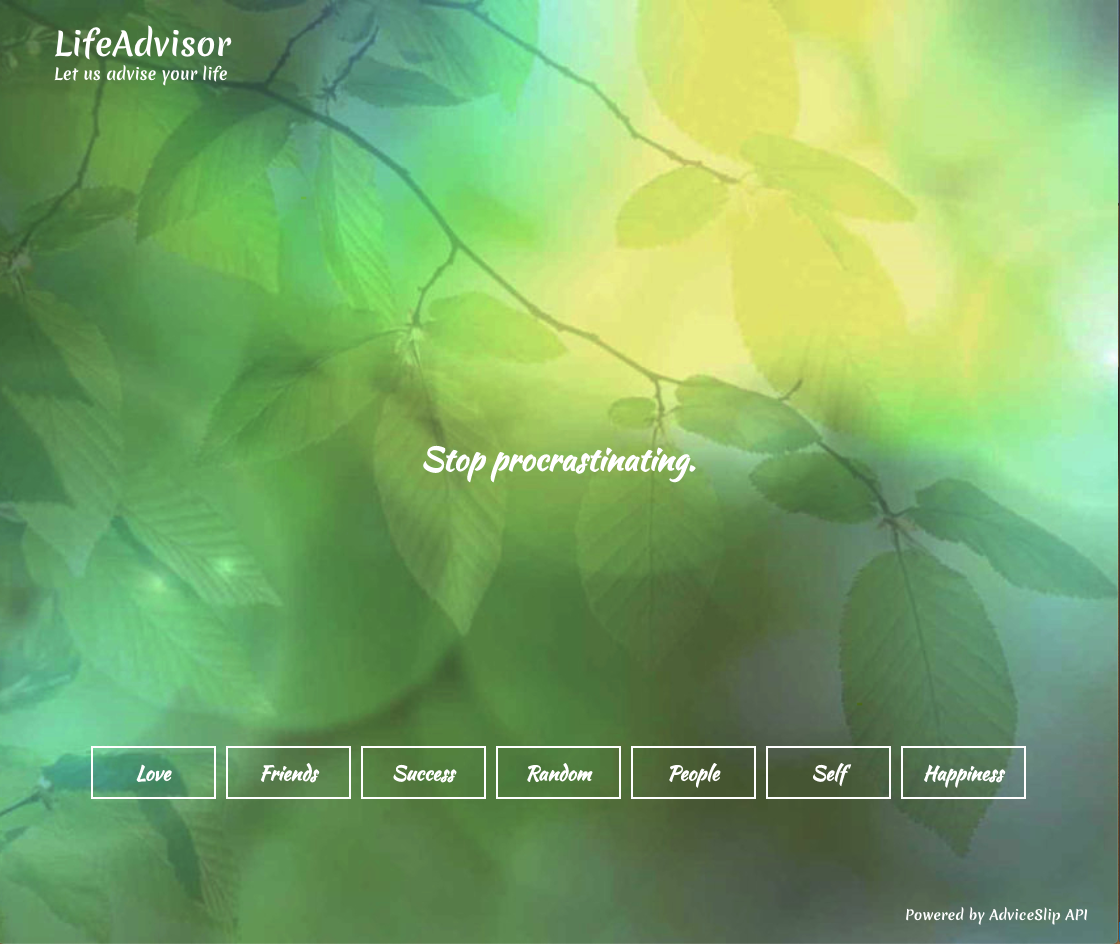
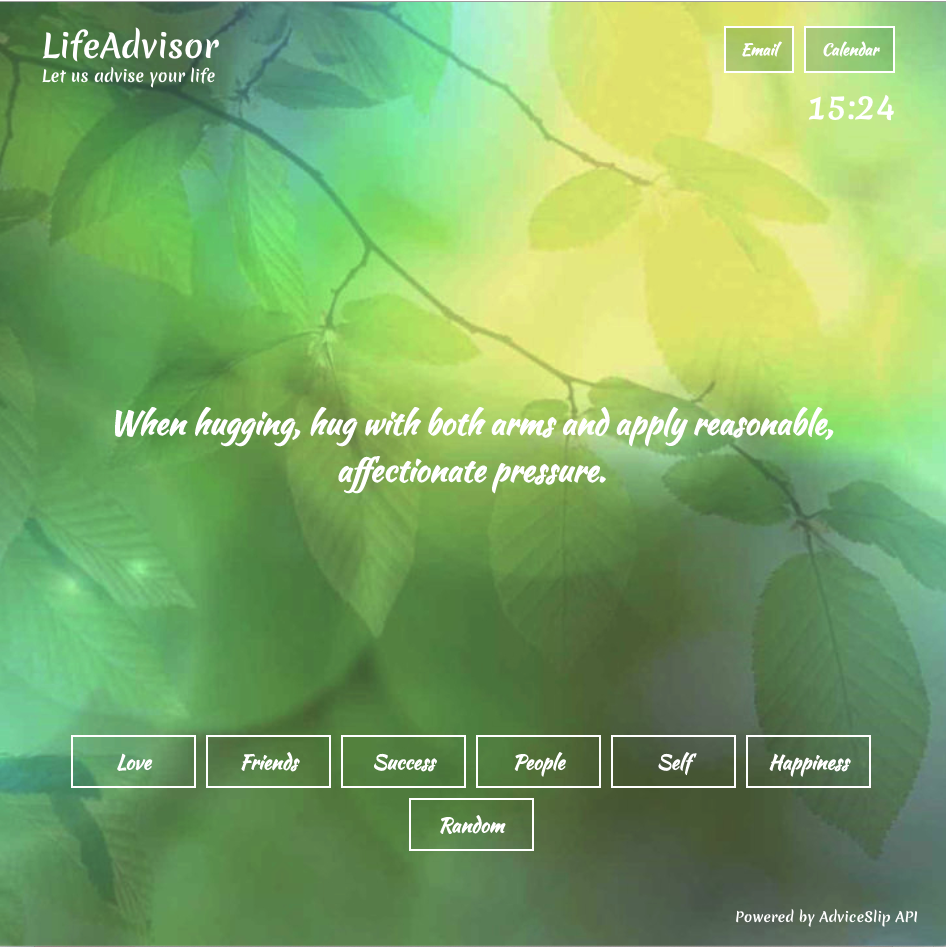
final

diff --git a/src/App.css b/src/App.css
@@ -75,7 +75,7 @@ a:hover{
 	display: flex;
 	flex-direction: column;
 	justify-content: center;
-	width: 850px;
+	width: 90%;
 	height: 100%;
 	margin: 0 auto;
 }
